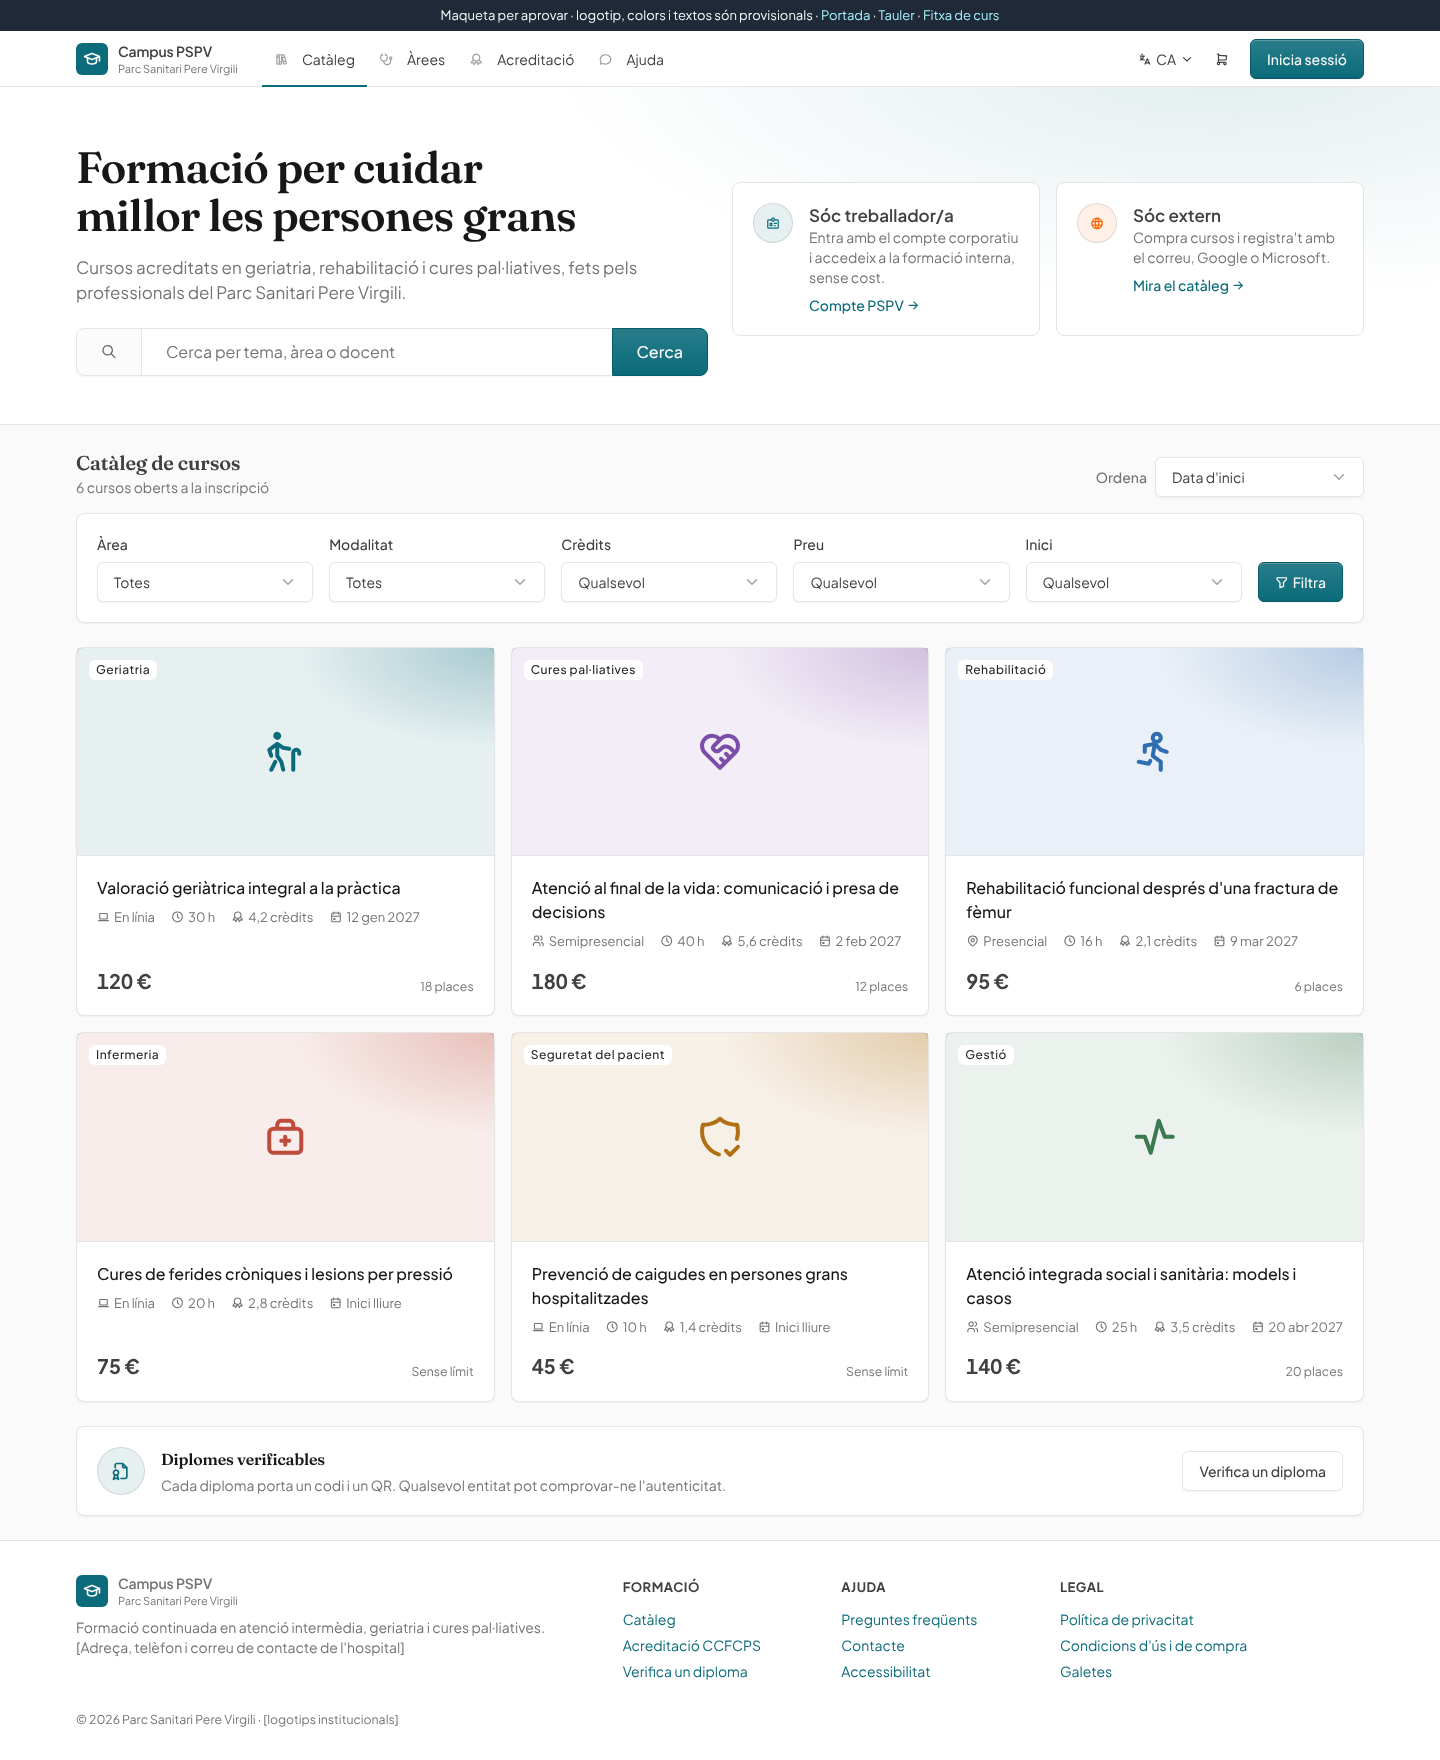
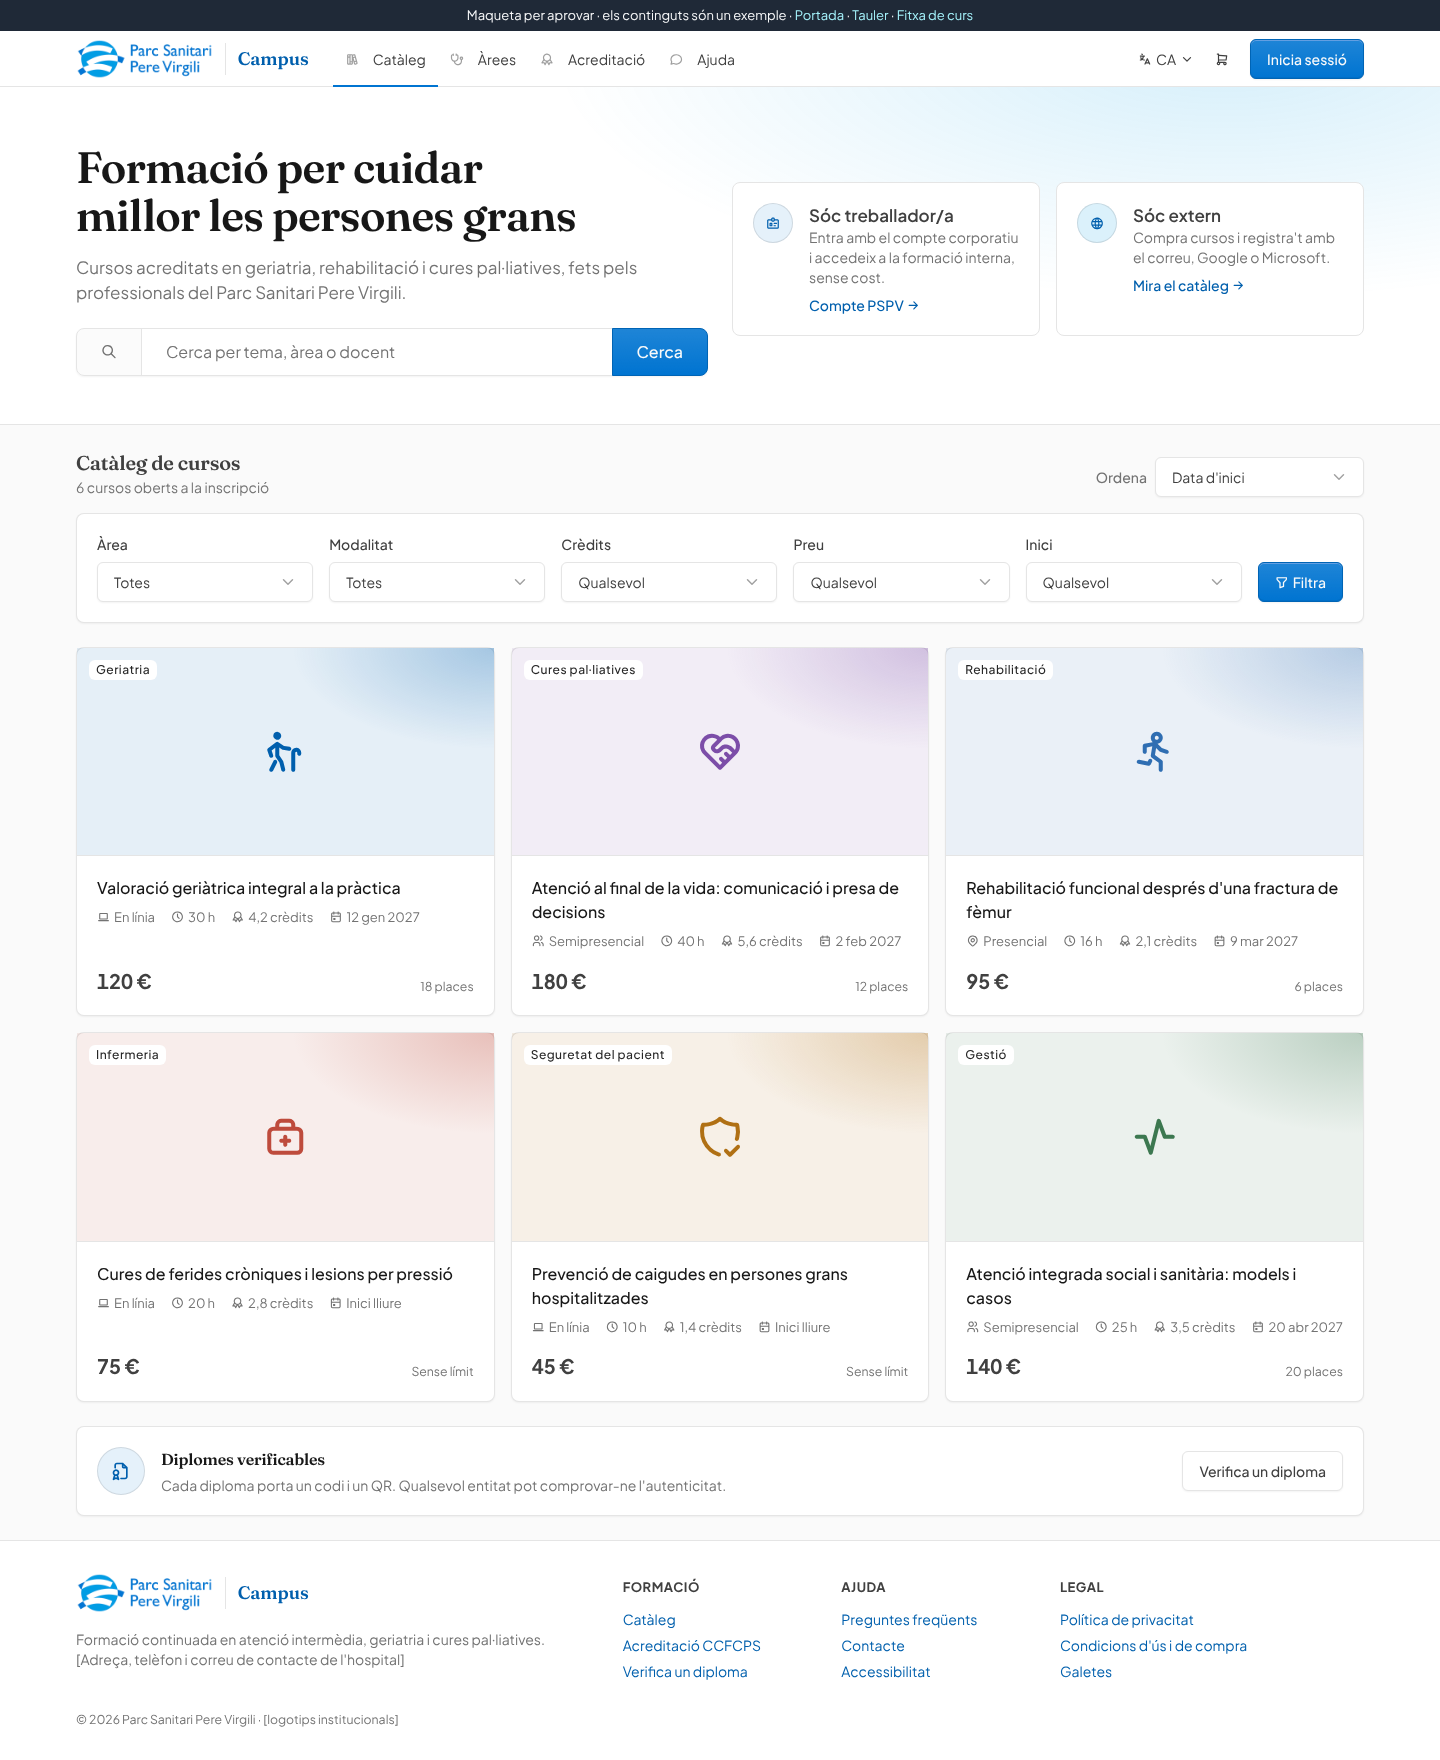
Aplica a les maquetes el logotip i els colors del PSPV
Blaus del logotip com a primari (#0074D1) i secundari (#009DE4), amb un to
més fosc (#005FAD) per al text i els enllaços perquè el contrast arribi a
WCAG AA també sobre fons tenyits.

Claude-Session: https://claude.ai/code/session_01FnG3oMXHDsyT7qZWHw8zw5

diff --git a/docs/maquetes/assets/maqueta.css b/docs/maquetes/assets/maqueta.css
@@ -1,9 +1,8 @@
 /*
  * Campus PSPV — estils propis de les maquetes, a sobre de Tabler.
  *
- * Els colors són MARCADORS DE POSICIÓ fins que arribi el manual d'identitat
- * de l'hospital: canviant aquestes dues variables canvia tota la interfície,
- * que és el que farà la configuració de theme_pspv.
+ * Els colors surten del logotip de l'hospital. Canviant les variables --pspv-*
+ * canvia tota la interfície, que és el que farà la configuració de theme_pspv.
  */
 /*
  * Tipografia de la web de Soportic: Plus Jakarta Sans per al text i Fraunces
@@ -46,25 +45,42 @@ h2,
 
 :root,
 [data-bs-theme="light"] {
-    --pspv-primary: #0b6b7a;
-    --pspv-primary-rgb: 11, 107, 122;
-    --pspv-secondary: #c2410c;
+    /* Blaus del logotip del Parc Sanitari Pere Virgili. */
+    --pspv-primary: #0074d1;
+    --pspv-primary-rgb: 0, 116, 209;
+    --pspv-secondary: #009de4;
+    --pspv-secondary-rgb: 0, 157, 228;
+    /* El blau del logotip fa 4,75:1 sobre blanc però no arriba a 4,5:1 sobre els fons
+       tenyits: el text i els enllaços fan servir un to més fosc del mateix blau (6,5:1). */
+    --pspv-primary-text: #005fad;
+    --pspv-primary-text-rgb: 0, 95, 173;
 
     --tblr-primary: var(--pspv-primary);
     --tblr-primary-rgb: var(--pspv-primary-rgb);
-    --tblr-link-color: var(--pspv-primary);
-    --tblr-link-color-rgb: var(--pspv-primary-rgb);
-    --tblr-link-hover-color: #084f5a;
-    --tblr-link-hover-color-rgb: 8, 79, 90;
+    --tblr-link-color: var(--pspv-primary-text);
+    --tblr-link-color-rgb: var(--pspv-primary-text-rgb);
+    --tblr-link-hover-color: #004a87;
+    --tblr-link-hover-color-rgb: 0, 74, 135;
 }
 
 [data-bs-theme="dark"] {
-    --pspv-primary: #4fc3d4;
-    --pspv-primary-rgb: 79, 195, 212;
+    --pspv-primary: #5aaeee;
+    --pspv-primary-rgb: 90, 174, 238;
+    --pspv-primary-text: #6bb8f2;
+    --pspv-primary-text-rgb: 107, 184, 242;
     --tblr-primary: var(--pspv-primary);
     --tblr-primary-rgb: var(--pspv-primary-rgb);
-    --tblr-link-color: var(--pspv-primary);
-    --tblr-link-color-rgb: var(--pspv-primary-rgb);
+    --tblr-link-color: var(--pspv-primary-text);
+    --tblr-link-color-rgb: var(--pspv-primary-text-rgb);
+}
+
+.text-primary,
+.bg-primary-lt {
+    color: var(--pspv-primary-text) !important;
+}
+.bg-secondary-lt {
+    background: rgba(var(--pspv-secondary-rgb), .14) !important;
+    color: var(--pspv-primary-text) !important;
 }
 
 /* Enllaç per saltar al contingut (WCAG 2.4.1). */
@@ -87,46 +103,44 @@ h2,
     outline-offset: 2px;
 }
 
-/* Marca provisional. */
+/* Marca: logotip de l'hospital i nom del campus. */
 .pspv-brand {
     display: inline-flex;
     align-items: center;
-    gap: .625rem;
+    gap: .75rem;
     color: inherit;
     text-decoration: none;
-    font-weight: 600;
-    letter-spacing: -.01em;
 }
 .pspv-brand:hover {
     color: inherit;
     text-decoration: none;
 }
-.pspv-brand-mark {
-    display: inline-grid;
-    place-items: center;
-    width: 2rem;
-    height: 2rem;
-    border-radius: var(--tblr-border-radius);
-    background: var(--pspv-primary);
-    color: #fff;
-    font-size: 1.125rem;
-}
-[data-bs-theme="dark"] .pspv-brand-mark {
-    color: #06262c;
-}
-.pspv-brand small {
+.pspv-brand img {
     display: block;
-    font-weight: 400;
-    font-size: .6875rem;
-    color: var(--tblr-secondary);
-    letter-spacing: 0;
+    height: 2.5rem;
+    width: auto;
+}
+.pspv-brand-campus {
+    padding-left: .75rem;
+    border-left: 1px solid var(--tblr-border-color);
+    font-family: var(--pspv-display);
+    font-weight: 600;
+    font-size: 1.125rem;
+    line-height: 2rem;
+    color: var(--pspv-primary-text);
+}
+/* El logotip és blau sobre transparent: en mode fosc va sobre una pastilla clara. */
+[data-bs-theme="dark"] .pspv-brand img {
+    padding: .25rem .5rem;
+    border-radius: var(--tblr-border-radius);
+    background: #fff;
 }
 
 /* Capçalera de la portada. */
 .pspv-hero {
     padding: 3.5rem 0 3rem;
     background:
-        radial-gradient(60rem 22rem at 85% -10%, rgba(var(--pspv-primary-rgb), .12), transparent 70%),
+        radial-gradient(60rem 22rem at 85% -10%, rgba(var(--pspv-secondary-rgb), .16), transparent 70%),
         var(--tblr-bg-surface);
     border-bottom: 1px solid var(--tblr-border-color);
 }
@@ -196,7 +210,7 @@ h2,
     left: .75rem;
     top: .75rem;
 }
-.pspv-cover-geriatria { --cover: 11, 107, 122; }
+.pspv-cover-geriatria { --cover: 0, 95, 173; }
 .pspv-cover-rehab { --cover: 47, 110, 178; }
 .pspv-cover-palliatius { --cover: 124, 77, 168; }
 .pspv-cover-infermeria { --cover: 190, 75, 60; }
@@ -298,7 +312,10 @@ h2,
 
 /* Barra superior en mòbil: amb la sessió iniciada, l'idioma passa al menú desplegable. */
 @media (max-width: 575.98px) {
-    .pspv-brand small {
+    .pspv-brand img {
+        height: 2rem;
+    }
+    .pspv-logged .pspv-brand-campus {
         display: none;
     }
     .pspv-logged .pspv-lang {

diff --git a/docs/maquetes/tauler.html b/docs/maquetes/tauler.html
@@ -13,7 +13,7 @@
 <body>
 <a class="pspv-skip" href="#contingut">Vés al contingut</a>
 <div class="pspv-draft">
-    Maqueta per aprovar · logotip, colors i textos són provisionals ·
+    Maqueta per aprovar · els continguts són un exemple ·
     <a href="index.html">Portada</a> · <a href="tauler.html">Tauler</a> · <a href="curs.html">Fitxa de curs</a>
 </div>
 <div class="page">
@@ -22,9 +22,9 @@
             <button class="navbar-toggler" type="button" data-bs-toggle="collapse" data-bs-target="#menu" aria-controls="menu" aria-expanded="false" aria-label="Obre el menú">
                 <span class="navbar-toggler-icon"></span>
             </button>
-            <a class="pspv-brand" href="index.html">
-                <span class="pspv-brand-mark" aria-hidden="true"><i class="ti ti-school"></i></span>
-                <span>Campus PSPV<small>Parc Sanitari Pere Virgili</small></span>
+            <a class="pspv-brand" href="index.html" aria-label="Campus del Parc Sanitari Pere Virgili, inici">
+                <img src="assets/logo-pspv.png" alt="Parc Sanitari Pere Virgili" width="137" height="40">
+                <span class="pspv-brand-campus">Campus</span>
             </a>
             <div class="navbar-nav flex-row align-items-center order-md-last">
                 <div class="nav-item dropdown pspv-lang">
@@ -141,7 +141,7 @@
                         <div class="card card-sm">
                             <div class="card-body">
                                 <div class="row align-items-center">
-                                    <div class="col-auto"><span class="avatar bg-azure-lt"><i class="ti ti-clock" aria-hidden="true"></i></span></div>
+                                    <div class="col-auto"><span class="avatar bg-primary-lt"><i class="ti ti-clock" aria-hidden="true"></i></span></div>
                                     <div class="col">
                                         <div class="h2 mb-0">86 h</div>
                                         <div class="text-secondary">Formació aquest any</div>
@@ -154,7 +154,7 @@
                         <div class="card card-sm">
                             <div class="card-body">
                                 <div class="row align-items-center">
-                                    <div class="col-auto"><span class="avatar bg-orange-lt"><i class="ti ti-award" aria-hidden="true"></i></span></div>
+                                    <div class="col-auto"><span class="avatar bg-primary-lt"><i class="ti ti-award" aria-hidden="true"></i></span></div>
                                     <div class="col">
                                         <div class="h2 mb-0">11,9</div>
                                         <div class="text-secondary">Crèdits CCFCPS</div>
@@ -200,7 +200,7 @@
                                         <div class="d-flex align-items-center gap-3 mb-3">
                                             <span class="avatar pspv-cover-palliatius" style="background:rgba(var(--cover),.12);color:rgb(var(--cover))" aria-hidden="true"><i class="ti ti-heart-handshake"></i></span>
                                             <div>
-                                                <span class="badge bg-orange-lt">Formació externa</span>
+                                                <span class="badge bg-secondary-lt">Formació externa</span>
                                                 <div class="text-secondary small mt-1">Cures pal·liatives</div>
                                             </div>
                                         </div>
@@ -380,9 +380,9 @@
             <div class="container-xl">
                 <div class="row g-4">
                     <div class="col-md-5">
-                        <a class="pspv-brand mb-2" href="index.html">
-                            <span class="pspv-brand-mark" aria-hidden="true"><i class="ti ti-school"></i></span>
-                            <span>Campus PSPV<small>Parc Sanitari Pere Virgili</small></span>
+                        <a class="pspv-brand mb-3" href="index.html" aria-label="Campus del Parc Sanitari Pere Virgili, inici">
+                            <img src="assets/logo-pspv.png" alt="Parc Sanitari Pere Virgili" width="137" height="40">
+                            <span class="pspv-brand-campus">Campus</span>
                         </a>
                         <p class="mb-0">Formació continuada en atenció intermèdia, geriatria i cures pal·liatives.<br>[Adreça, telèfon i correu de contacte de l'hospital]</p>
                     </div>

diff --git a/docs/maquetes/index.html b/docs/maquetes/index.html
@@ -13,7 +13,7 @@
 <body>
 <a class="pspv-skip" href="#contingut">Vés al contingut</a>
 <div class="pspv-draft">
-    Maqueta per aprovar · logotip, colors i textos són provisionals ·
+    Maqueta per aprovar · els continguts són un exemple ·
     <a href="index.html">Portada</a> · <a href="tauler.html">Tauler</a> · <a href="curs.html">Fitxa de curs</a>
 </div>
 <div class="page">
@@ -22,9 +22,9 @@
             <button class="navbar-toggler" type="button" data-bs-toggle="collapse" data-bs-target="#menu" aria-controls="menu" aria-expanded="false" aria-label="Obre el menú">
                 <span class="navbar-toggler-icon"></span>
             </button>
-            <a class="pspv-brand" href="index.html">
-                <span class="pspv-brand-mark" aria-hidden="true"><i class="ti ti-school"></i></span>
-                <span>Campus PSPV<small>Parc Sanitari Pere Virgili</small></span>
+            <a class="pspv-brand" href="index.html" aria-label="Campus del Parc Sanitari Pere Virgili, inici">
+                <img src="assets/logo-pspv.png" alt="Parc Sanitari Pere Virgili" width="137" height="40">
+                <span class="pspv-brand-campus">Campus</span>
             </a>
             <div class="navbar-nav flex-row align-items-center order-md-last">
                 <div class="nav-item dropdown pspv-lang">
@@ -103,7 +103,7 @@
                             </div>
                             <div class="col-sm-6">
                                 <a class="pspv-door" href="#cataleg">
-                                    <span class="avatar bg-orange-lt"><i class="ti ti-world" aria-hidden="true"></i></span>
+                                    <span class="avatar bg-secondary-lt"><i class="ti ti-world" aria-hidden="true"></i></span>
                                     <span>
                                         <strong>Sóc extern</strong>
                                         <span class="text-secondary">Compra cursos i registra't amb el correu, Google o Microsoft.</span>
@@ -323,9 +323,9 @@
             <div class="container-xl">
                 <div class="row g-4">
                     <div class="col-md-5">
-                        <a class="pspv-brand mb-2" href="index.html">
-                            <span class="pspv-brand-mark" aria-hidden="true"><i class="ti ti-school"></i></span>
-                            <span>Campus PSPV<small>Parc Sanitari Pere Virgili</small></span>
+                        <a class="pspv-brand mb-3" href="index.html" aria-label="Campus del Parc Sanitari Pere Virgili, inici">
+                            <img src="assets/logo-pspv.png" alt="Parc Sanitari Pere Virgili" width="137" height="40">
+                            <span class="pspv-brand-campus">Campus</span>
                         </a>
                         <p class="mb-0">Formació continuada en atenció intermèdia, geriatria i cures pal·liatives.<br>[Adreça, telèfon i correu de contacte de l'hospital]</p>
                     </div>

diff --git a/docs/maquetes/curs.html b/docs/maquetes/curs.html
@@ -13,7 +13,7 @@
 <body>
 <a class="pspv-skip" href="#contingut">Vés al contingut</a>
 <div class="pspv-draft">
-    Maqueta per aprovar · logotip, colors i textos són provisionals ·
+    Maqueta per aprovar · els continguts són un exemple ·
     <a href="index.html">Portada</a> · <a href="tauler.html">Tauler</a> · <a href="curs.html">Fitxa de curs</a>
 </div>
 <div class="page">
@@ -22,9 +22,9 @@
             <button class="navbar-toggler" type="button" data-bs-toggle="collapse" data-bs-target="#menu" aria-controls="menu" aria-expanded="false" aria-label="Obre el menú">
                 <span class="navbar-toggler-icon"></span>
             </button>
-            <a class="pspv-brand" href="index.html">
-                <span class="pspv-brand-mark" aria-hidden="true"><i class="ti ti-school"></i></span>
-                <span>Campus PSPV<small>Parc Sanitari Pere Virgili</small></span>
+            <a class="pspv-brand" href="index.html" aria-label="Campus del Parc Sanitari Pere Virgili, inici">
+                <img src="assets/logo-pspv.png" alt="Parc Sanitari Pere Virgili" width="137" height="40">
+                <span class="pspv-brand-campus">Campus</span>
             </a>
             <div class="navbar-nav flex-row align-items-center order-md-last">
                 <div class="nav-item dropdown pspv-lang">
@@ -361,9 +361,9 @@
             <div class="container-xl">
                 <div class="row g-4">
                     <div class="col-md-5">
-                        <a class="pspv-brand mb-2" href="index.html">
-                            <span class="pspv-brand-mark" aria-hidden="true"><i class="ti ti-school"></i></span>
-                            <span>Campus PSPV<small>Parc Sanitari Pere Virgili</small></span>
+                        <a class="pspv-brand mb-3" href="index.html" aria-label="Campus del Parc Sanitari Pere Virgili, inici">
+                            <img src="assets/logo-pspv.png" alt="Parc Sanitari Pere Virgili" width="137" height="40">
+                            <span class="pspv-brand-campus">Campus</span>
                         </a>
                         <p class="mb-0">Formació continuada en atenció intermèdia, geriatria i cures pal·liatives.<br>[Adreça, telèfon i correu de contacte de l'hospital]</p>
                     </div>

diff --git a/docs/maquetes/README.md b/docs/maquetes/README.md
@@ -13,16 +13,26 @@ d'implementar `theme_pspv`.
 Per veure-les en viu, obre `index.html` amb el navegador: no necessiten
 servidor ni connexió (CSS, icones i tipografia són a `assets/`).
 
+## Identitat
+
+- **Logotip.** El del Parc Sanitari Pere Virgili, a la capçalera i al peu, al
+  costat del nom «Campus». S'ha preparat a partir d'un JPG de 720 px: per al
+  tema convé la versió vectorial (SVG) i, si existeix, la versió en negatiu
+  per a fons foscos.
+- **Colors.** Els dos blaus del logotip: `#0074D1` (primari) i `#009DE4`
+  (secundari). El primari fa 4,75:1 sobre blanc, però no arriba al 4,5:1 que
+  demana WCAG AA sobre els fons tenyits; per això el text i els enllaços fan
+  servir un to més fosc del mateix blau, `#005FAD` (6,5:1). El secundari
+  (3,0:1) només es fa servir en fons i detalls, mai per a text.
+- Tot surt de les variables `--pspv-*` de `assets/maqueta.css`, que és el que
+  es podrà configurar des de l'administració del tema.
+
 ## Què és provisional
 
-- **Colors.** El verd blavós (`#0b6b7a`) i el taronja són marcadors de
-  posició. Tota la interfície surt de dues variables de
-  `assets/maqueta.css` (`--pspv-primary` i `--pspv-secondary`), que és el que
-  es podrà configurar des de l'administració del tema.
-- **Logotip.** Icona genèrica, fins que arribi el logotip de l'hospital.
 - **Continguts.** Cursos, preus, dates, crèdits, noms i xifres són d'exemple.
   El que va entre claudàtors (`[Nom del docent]`, `[Tractament de l'IVA…]`)
   és informació que ha de donar l'hospital.
+- **Colors de les àrees** a les portades dels cursos sense imatge.
 
 ## Tipografia
 
